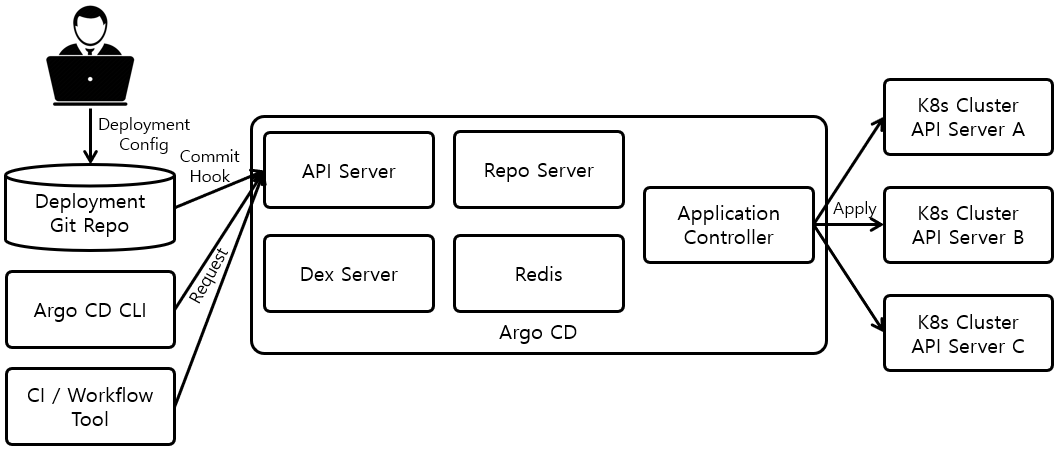
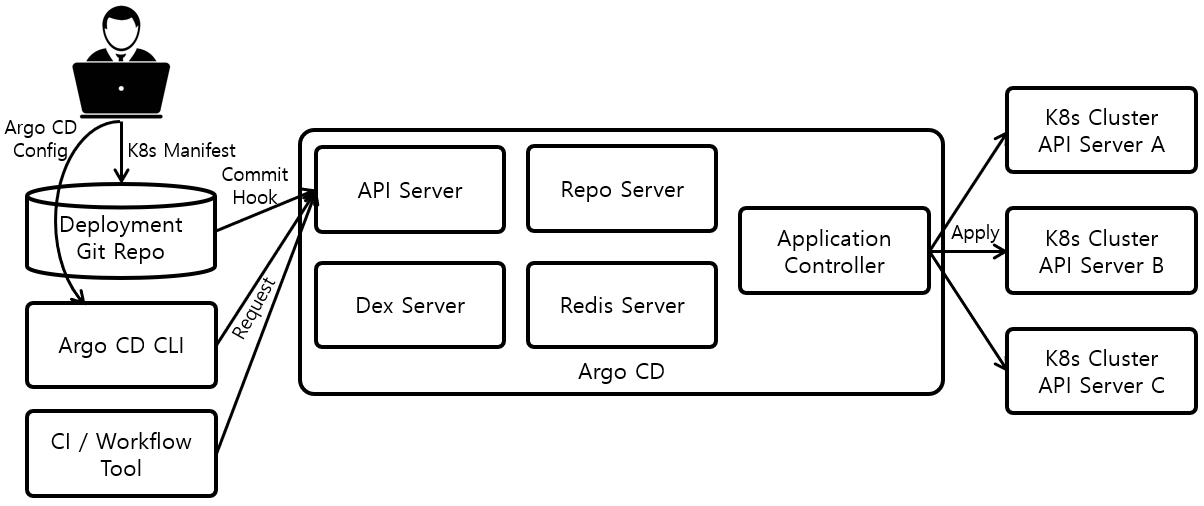
Update

Changed region(s): [[0.0, 0.0, 0.9953, 0.9912]]

diff --git a/_docs/theory_analysis/Argo_CD.md b/_docs/theory_analysis/Argo_CD.md
@@ -13,6 +13,12 @@ Argo CD를 분석한다.
 
 ![[그림 1] Argo CD Architecture]({{site.baseurl}}/images/theory_analysis/Argo_CD/Argo_CD_Architecture.PNG){: width="750px"}
 
+Argo CD는 Kubernetes 기반 GitOps Platform이다. [그림 1]은 Argo CD의 Architecture를 나타내고 있다. Argo CD는 크게 API Server, Repo Server, Dex Server, Redis Server, Application Controller로 구성되어 있다.
+
+API Server는 외부에서 Argo CD로 전달되는 모든 요청을 받는 창구 역활을 수행한다. App 관리자가 App의 배포 설정이 담겨있는 Kubernetes Manifest를 Deployment Git Repo에 Commit하면, Deployment Git Repo는 Commit Hook과 함께 변경된 Kubernetes Manifest를 API Server에게 전달한다. 또한 API Server는 Argo CD CLI 또는 CI/Workflow 도구들로부터 전송되는 Argo CD 설정 요청 및 App 수동 배포 요청들도 받는다.
+
+Dex Server는 Argo CD의 인증 (Authentication)을 담당한다. Dex Server는 API Server에게 전달되는 Commit Hook 또는 App 배포 관련 요청들이 인증된 사용자 또는 도구들로부터 온 요청인지 확인한다. OICD, SAML, LDAP등 다양한 인증 Procotol/Format을 지원한다. Repo Server는 Deployment Git Repo에 저장되어 있는 Kubernetes Manifest를 Caching하고, Argo CD의 다른 구성요소들에게 Kubernetes Manifest를 제공하는 역활을 수행한다. Redis Server는 Argo CD 구성요소들의 Cache 역활을 수행한다.
+
 ### 2. 참조
 
 * [https://argoproj.github.io/argo-cd/operator-manual/architecture/](https://argoproj.github.io/argo-cd/operator-manual/architecture/)
